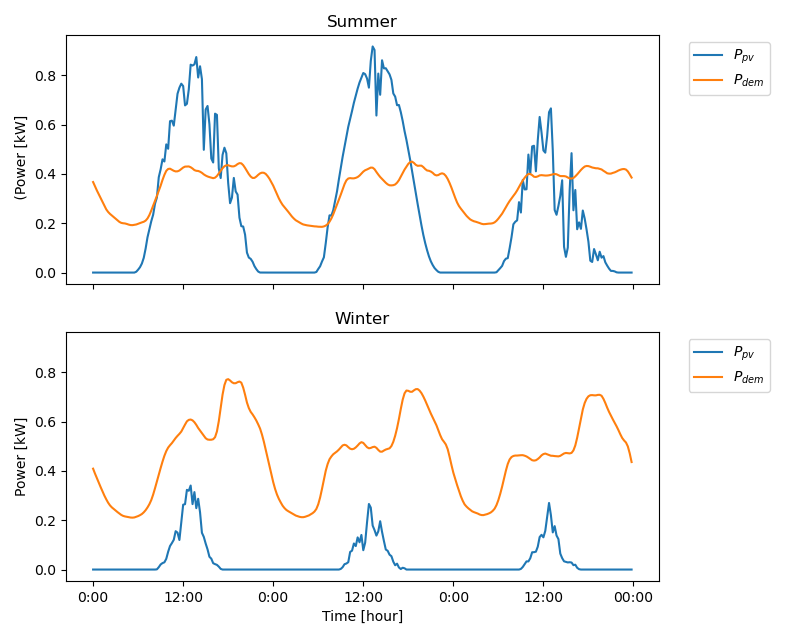
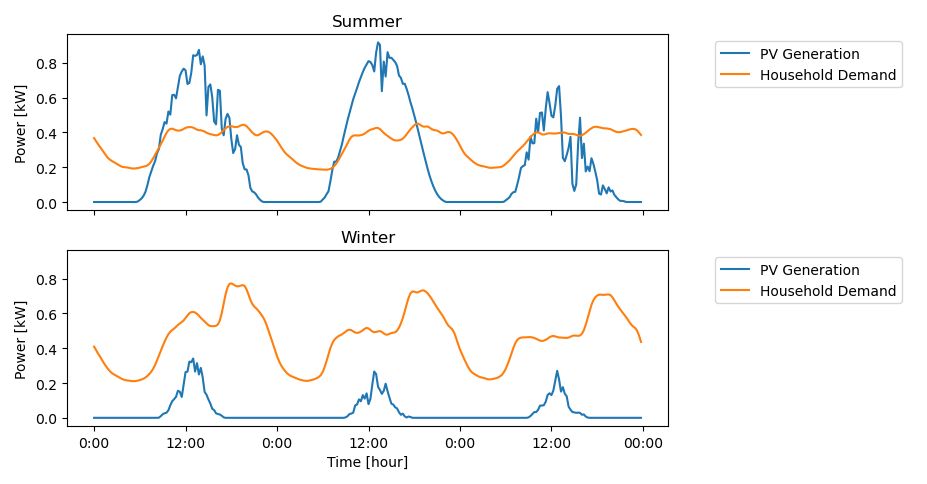
pv dem legend label update

Changed region(s): [[0.0, 0.0, 0.9913, 0.9917], [0.7745, 0.062, 0.9913, 0.186], [0.6815, 0.5888, 0.7745, 0.7128]]

diff --git a/AssB_Group4_costs.py b/AssB_Group4_costs.py
@@ -97,7 +97,7 @@ def get_minimal_cost(season):
 summer_out_costmin = get_minimal_cost(summer)
 winter_out_costmin = get_minimal_cost(winter)
 
-
+#%%
 def get_plots_Pbat_Pgrid_elecprice(season1, season2):
 
         fig, axs = plt.subplots(nrows =2, ncols=1, sharex=True, sharey=True)
@@ -141,6 +141,10 @@ def get_plots_Pbat_Pgrid_elecprice(season1, season2):
         
 get_plots_Pbat_Pgrid_elecprice(summer_out_costmin, winter_out_costmin)
 
+max_pbat_row = winter_out_costmin.iloc[winter_out_costmin['Pbat_dis'].idxmax(axis=0)]
+print(max_pbat_row)
+max_grid =  summer_out_costmin.iloc[summer_out_costmin['Pgrid'].idxmin(axis=0)]
+print(max_grid)
 #%%
 
 def get_plots_SOC(season1,season2):
@@ -167,17 +171,17 @@ def get_plots_pv_dem(season1, season2):
        
         fig.tight_layout()
             
-        axs[0].plot(season1['PV generation [kW]'], label = '$P_{pv}$')
-        axs[0].plot(season1['Residential load [kW]'], label = '$P_{dem}$')
+        axs[0].plot(season1['PV generation [kW]'], label = 'PV Generation')
+        axs[0].plot(season1['Residential load [kW]'], label = 'Household Demand')
  
-        axs[0].legend(loc='upper right', bbox_to_anchor=(1.2,1))
-        axs[0].set(ylabel=' (Power [kW]', xlabel='', title='Summer')
+        axs[0].legend(loc='upper right', bbox_to_anchor=(1.4,1))
+        axs[0].set(ylabel='Power [kW]', xlabel='', title='Summer')
         
 
-        axs[1].plot(season2['PV generation [kW]'], label = '$P_{pv}$')
-        axs[1].plot(season2['Residential load [kW]'], label = '$P_{dem}$')
+        axs[1].plot(season2['PV generation [kW]'], label = 'PV Generation')
+        axs[1].plot(season2['Residential load [kW]'], label = 'Household Demand')
         
-        axs[1].legend(loc='upper right', bbox_to_anchor=(1.2,1))
+        axs[1].legend(loc='upper right', bbox_to_anchor=(1.4,1))
         axs[1].set(ylabel='Power [kW]', xlabel='Time [hour]', title='Winter')
           
 get_plots_pv_dem(summer_out_costmin, winter_out_costmin)
